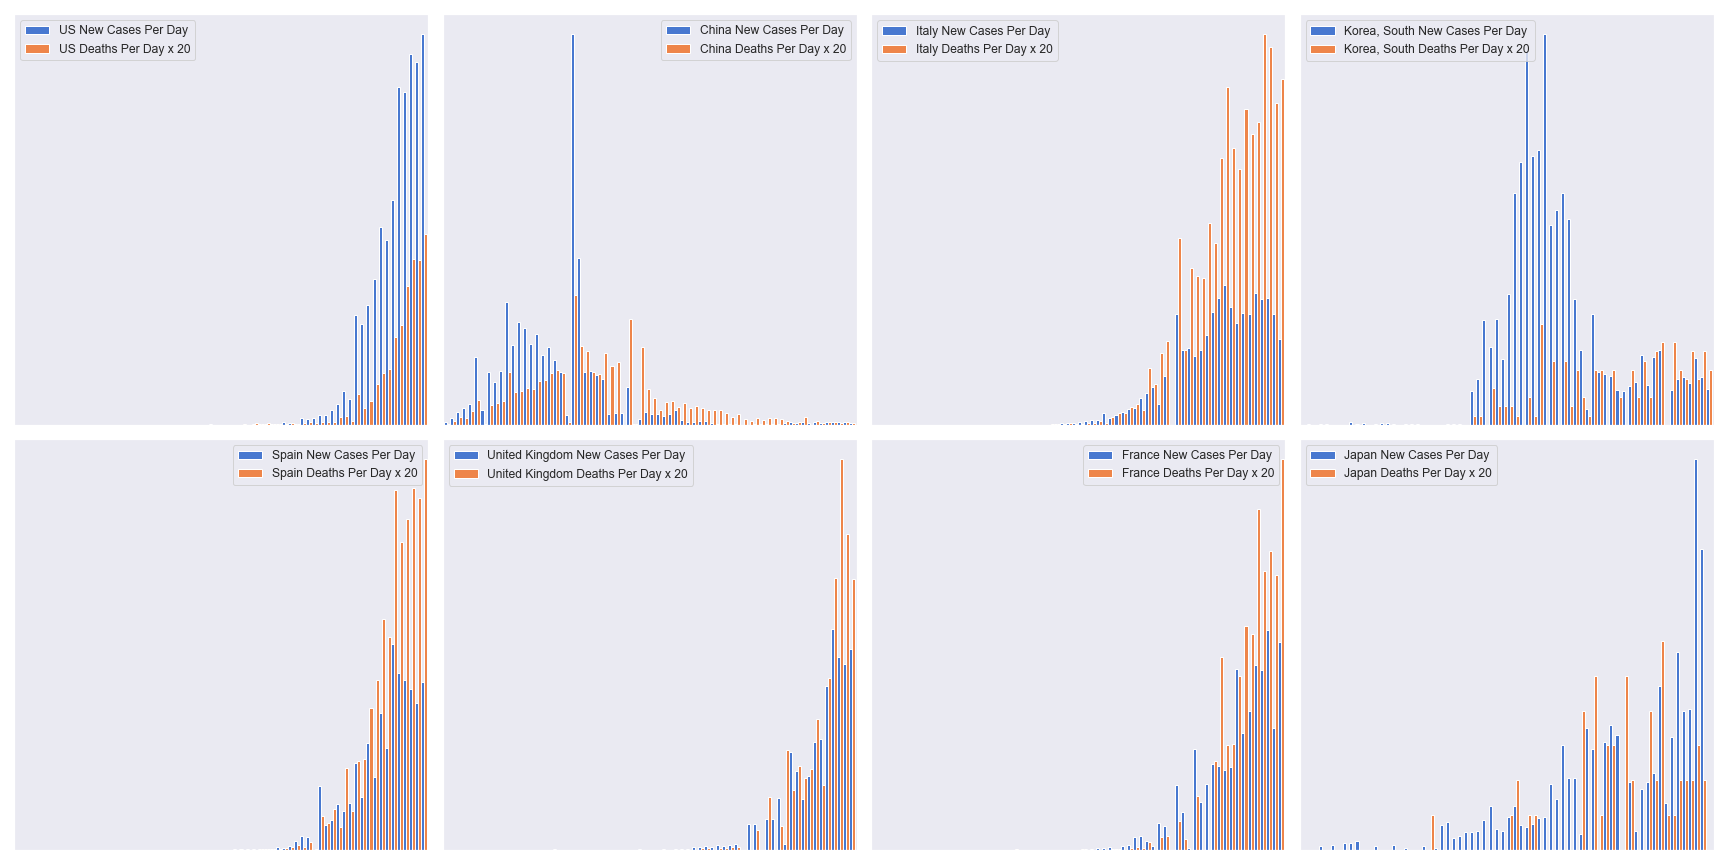
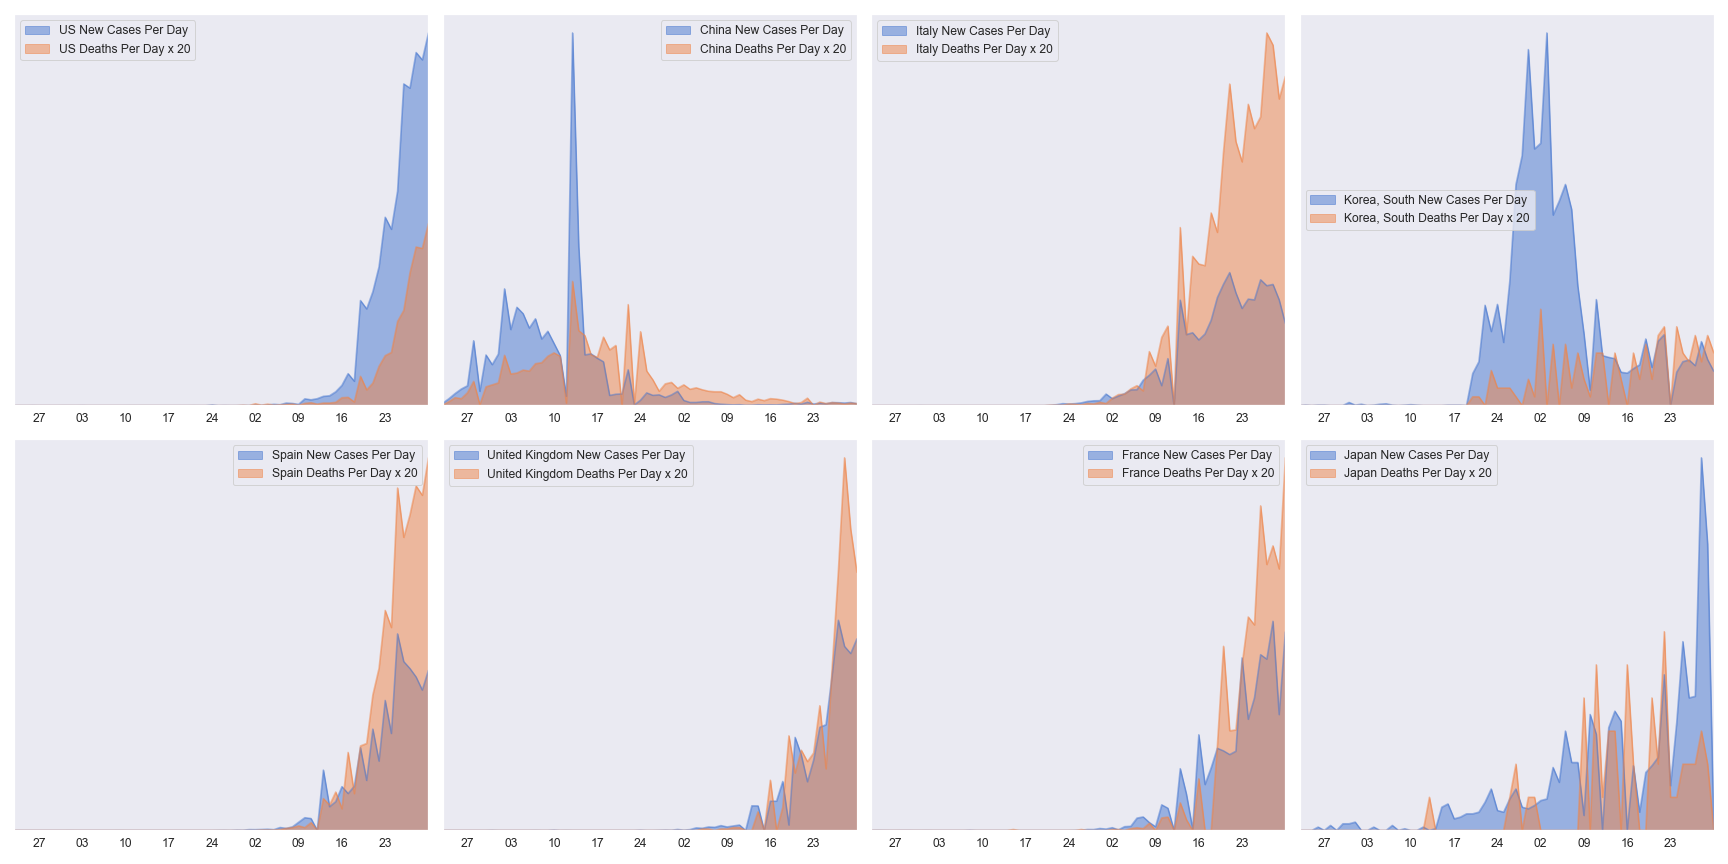
Updates

diff --git a/README.md b/README.md
@@ -12,3 +12,9 @@ You can change variables like ``MovingAveDays`` to adjust the number of days in 
 
 ## Latest chart
 ![Latest chart](charts/20200330-covid19-chart.png)
+
+## New per-day new cases vs new day deaths (x20) comparison chart
+![Comparison chart](charts/20200330-covid19-comparison-chart.png)
+
+## New per-day new cases vs recovery comparison chart
+![Recovery chart](charts/20200330-covid19-comparison-recovery-chart.png)
